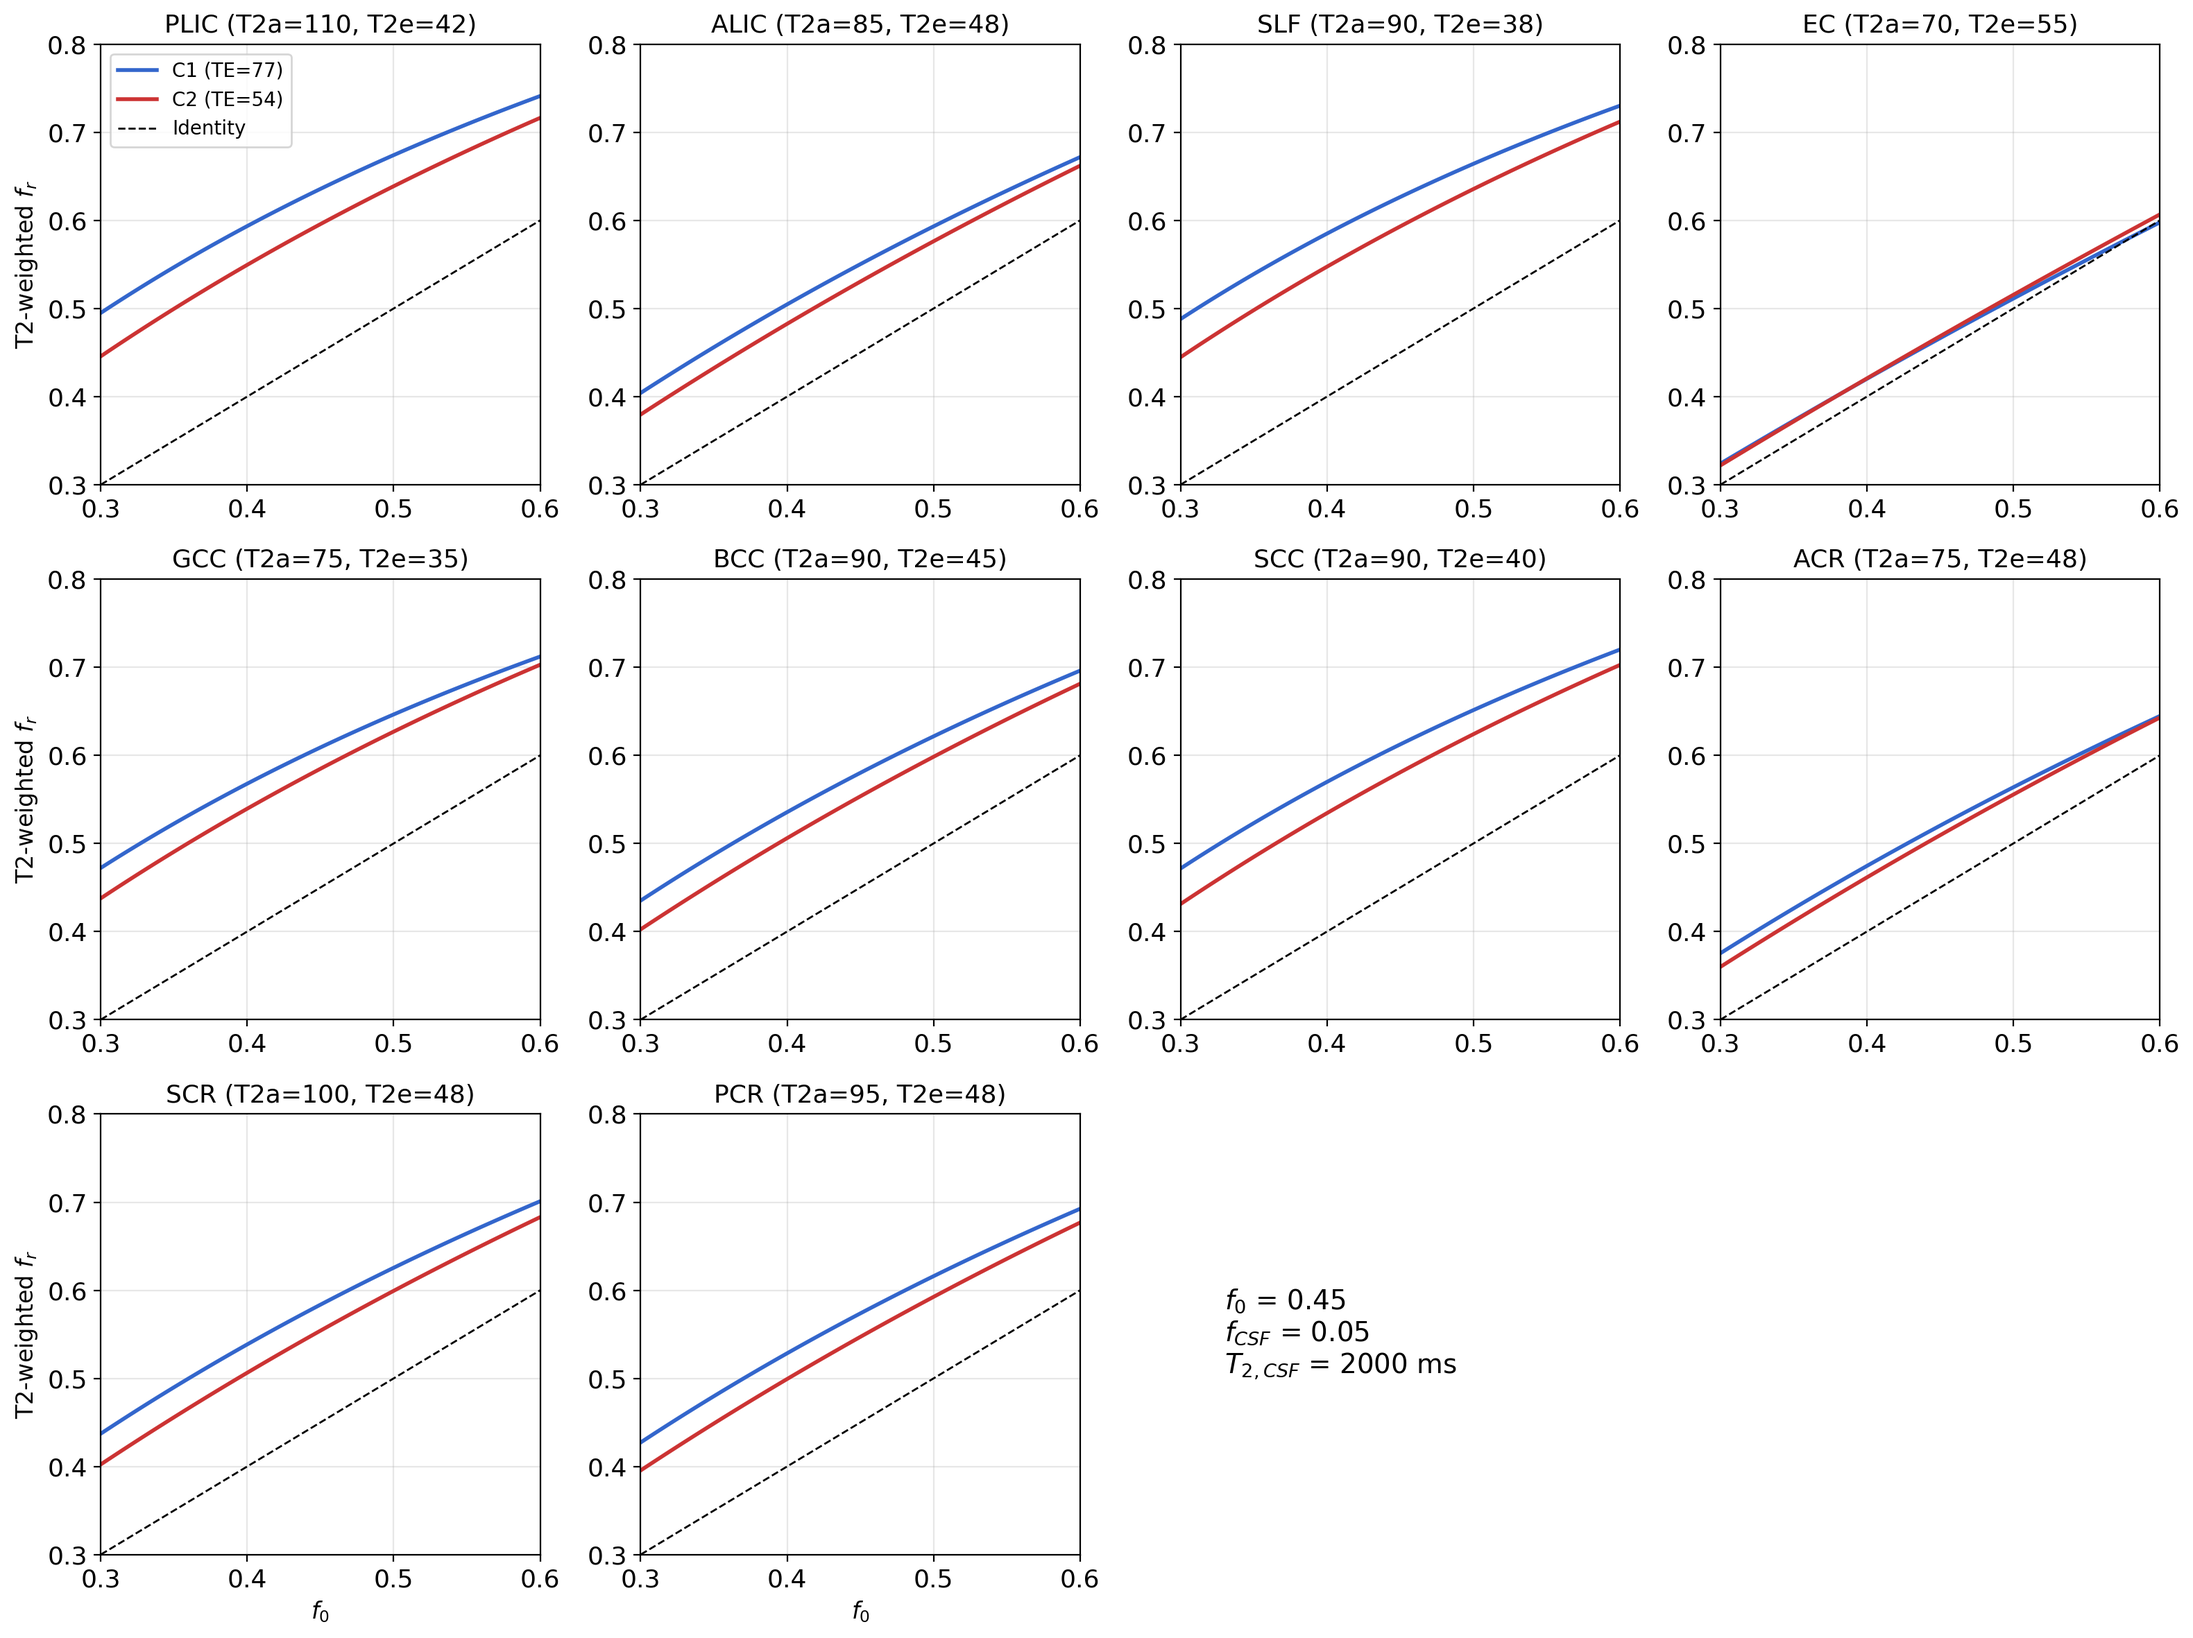
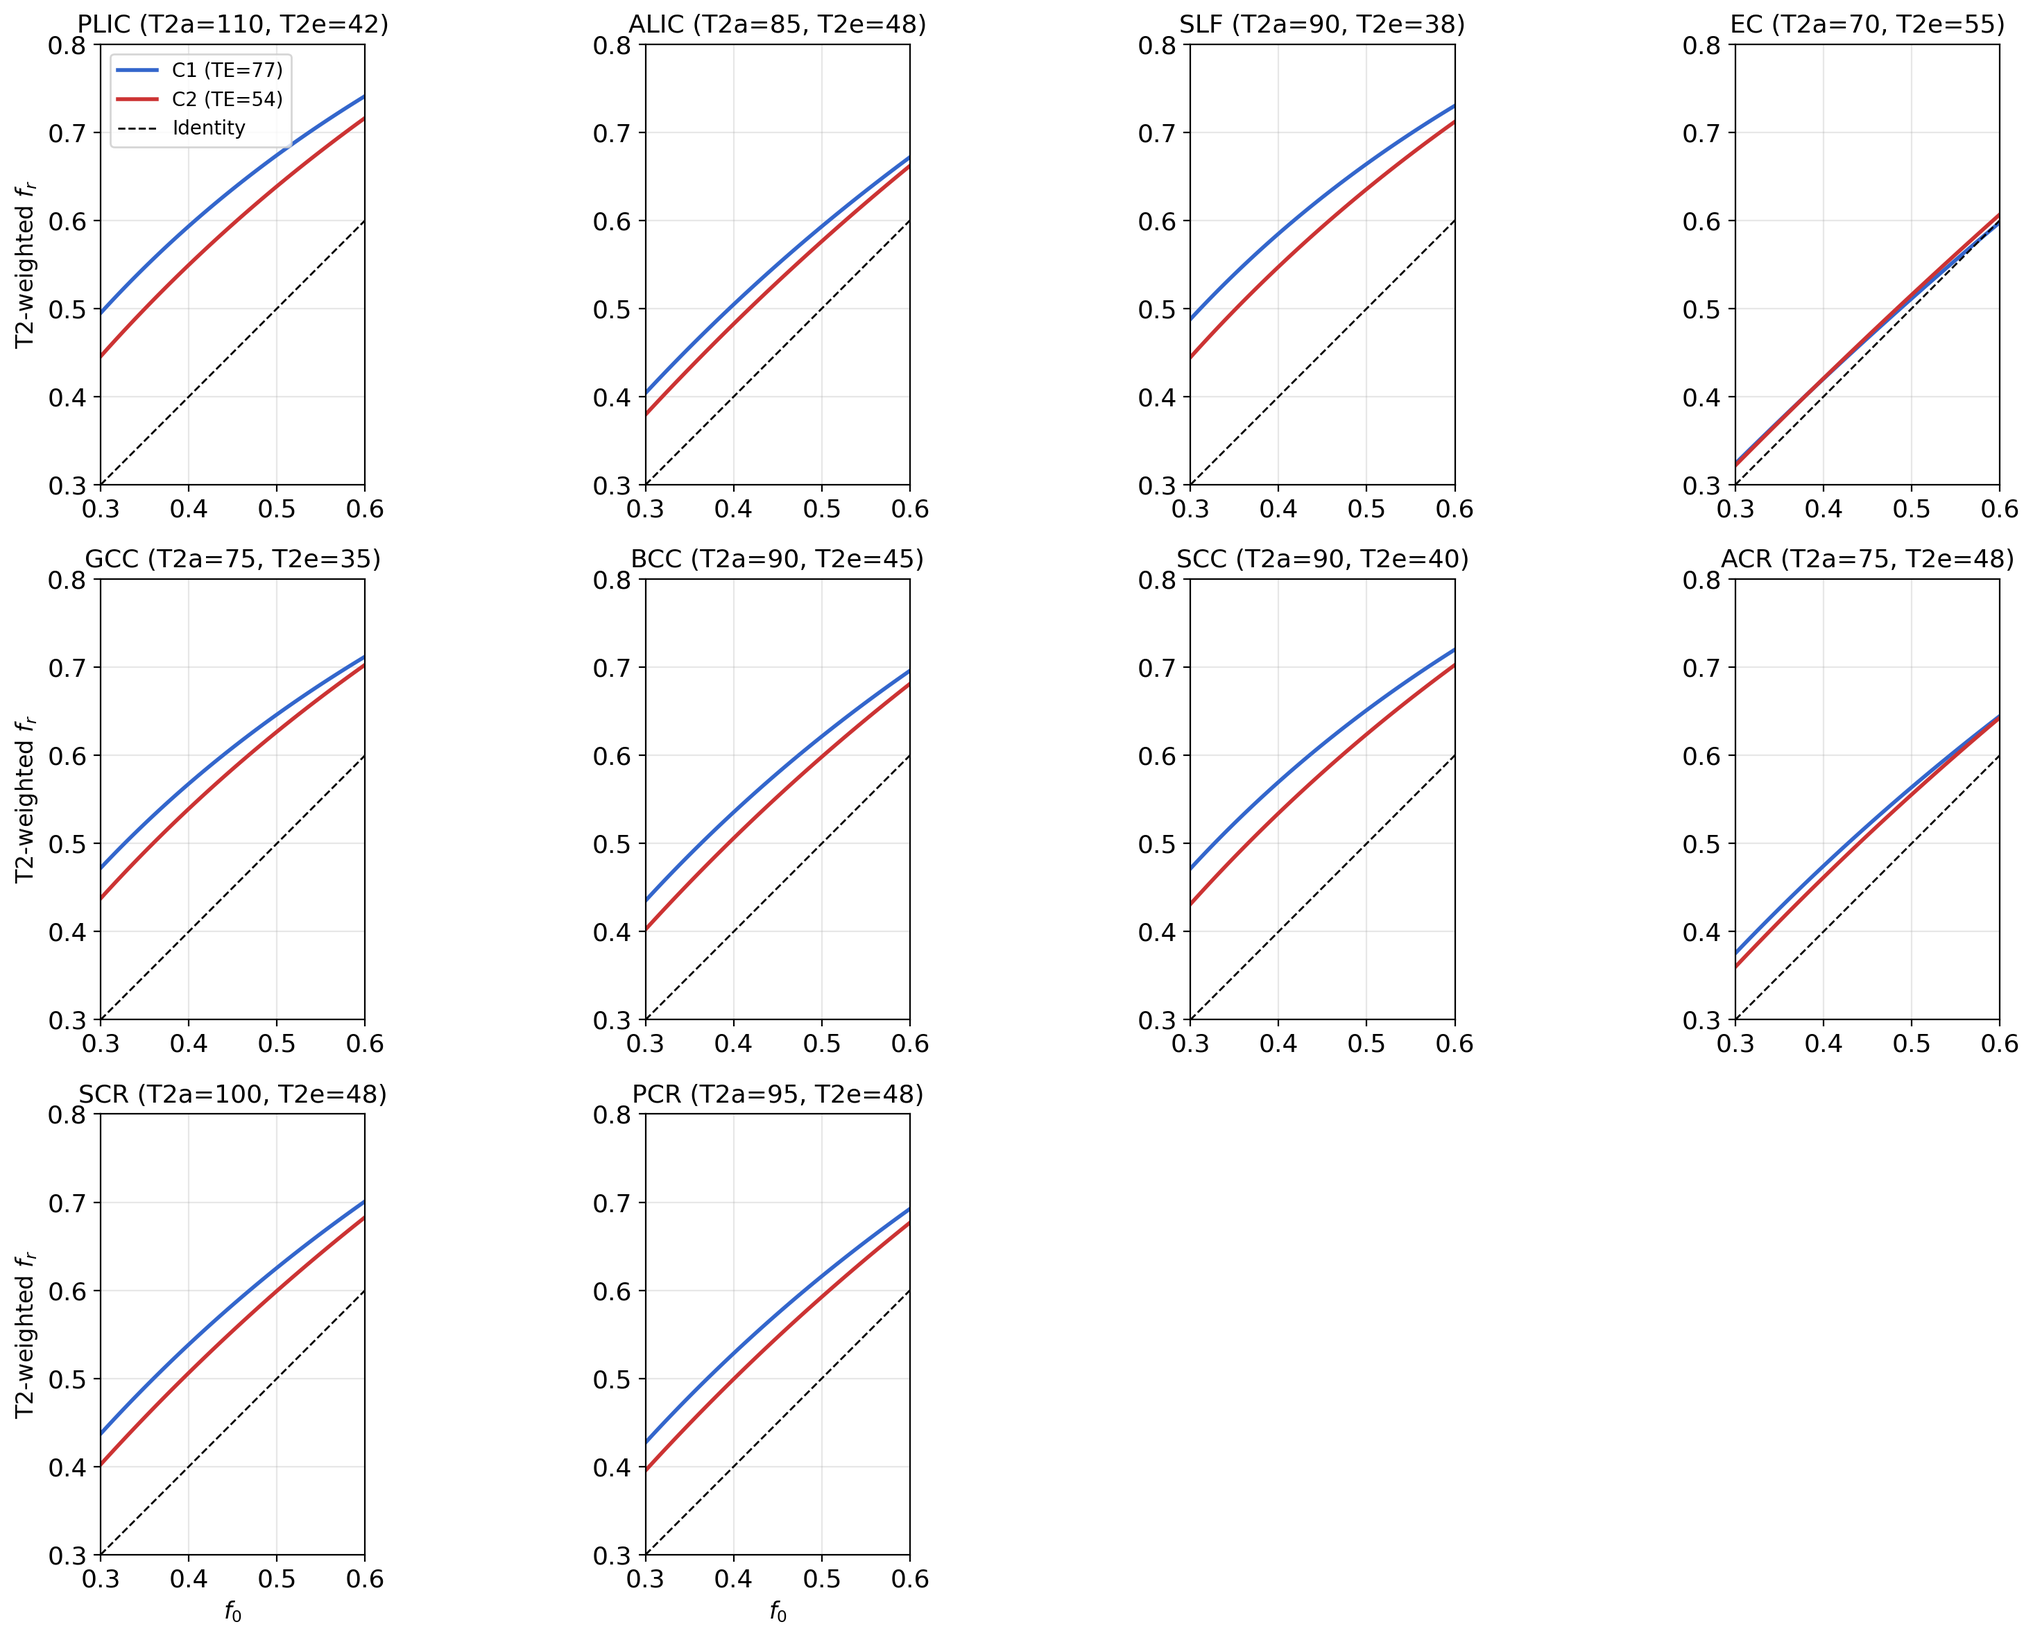
remove annotation, use equal aspect ratio for all subplot grids

diff --git a/demo_T2_weighted_fraction.m b/demo_T2_weighted_fraction.m
@@ -112,7 +112,7 @@ for k = 1:Nroi
     plot([0.3 0.8], [0.3 0.8], 'k--', 'LineWidth', 1);
 
     xlim([0.3 0.6]); ylim([0.3 0.8]);
-    grid on; box on;
+    daspect([1 1 1]); grid on; box on;
     set(gca, 'FontSize', 11);
     title(sprintf('%s (T2a=%d, T2e=%d)', roi_names{k}, T2a, T2e), 'FontSize', 13);
 
@@ -123,11 +123,6 @@ for k = 1:Nroi
     if mod(k-1,4) == 0; ylabel('T2-weighted f_r', 'FontSize', 12); end
     if k > 8; xlabel('f_0', 'FontSize', 12); end
 end
-
-% Use last tiles (3x4=12, only 10 ROIs) for annotation
-nexttile; axis off;
-text(0.1, 0.5, sprintf('f_0 = %.2f\nf_{CSF} = %.2f\nT2_{CSF} = %d ms', f0, fcsf, T2csf), ...
-    'FontSize', 14, 'VerticalAlignment', 'middle');
 
 exportgraphics(gcf, 'fig_T2_weighted_fraction_per_ROI.pdf', 'ContentType', 'vector');
 
